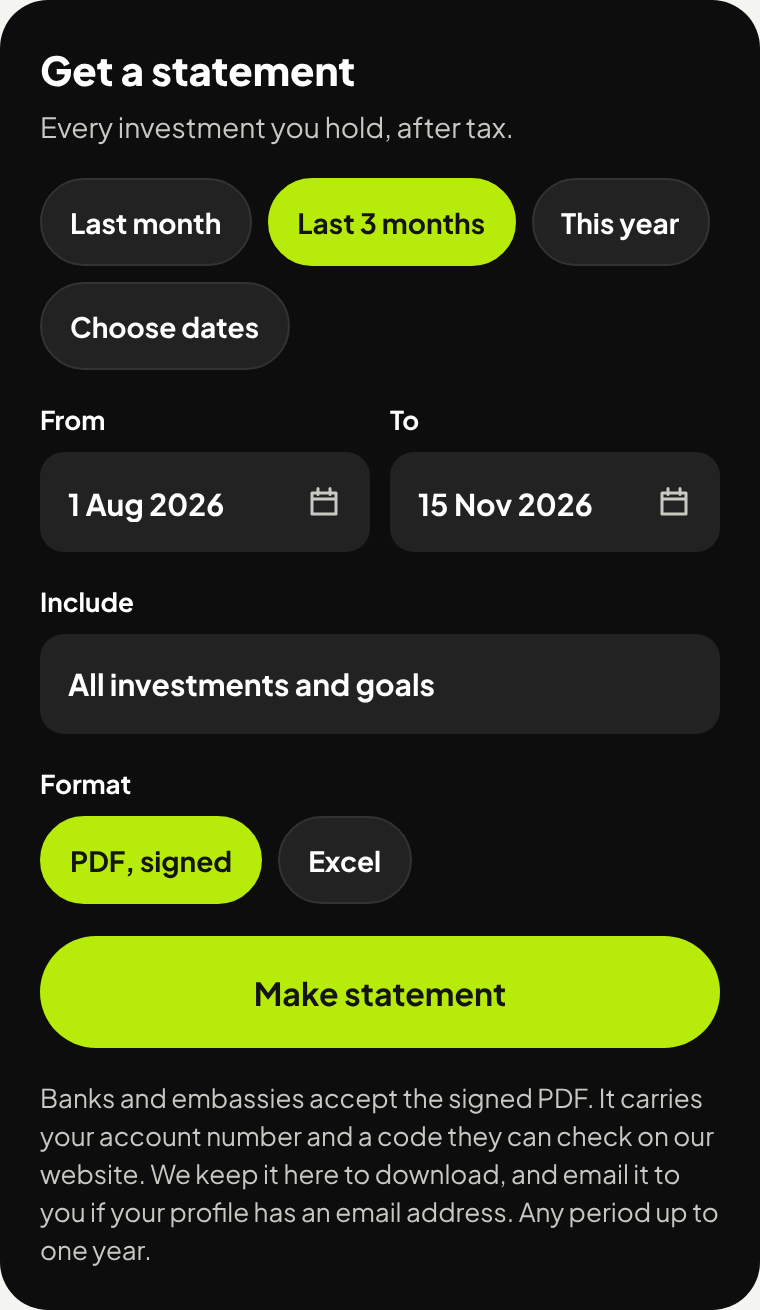
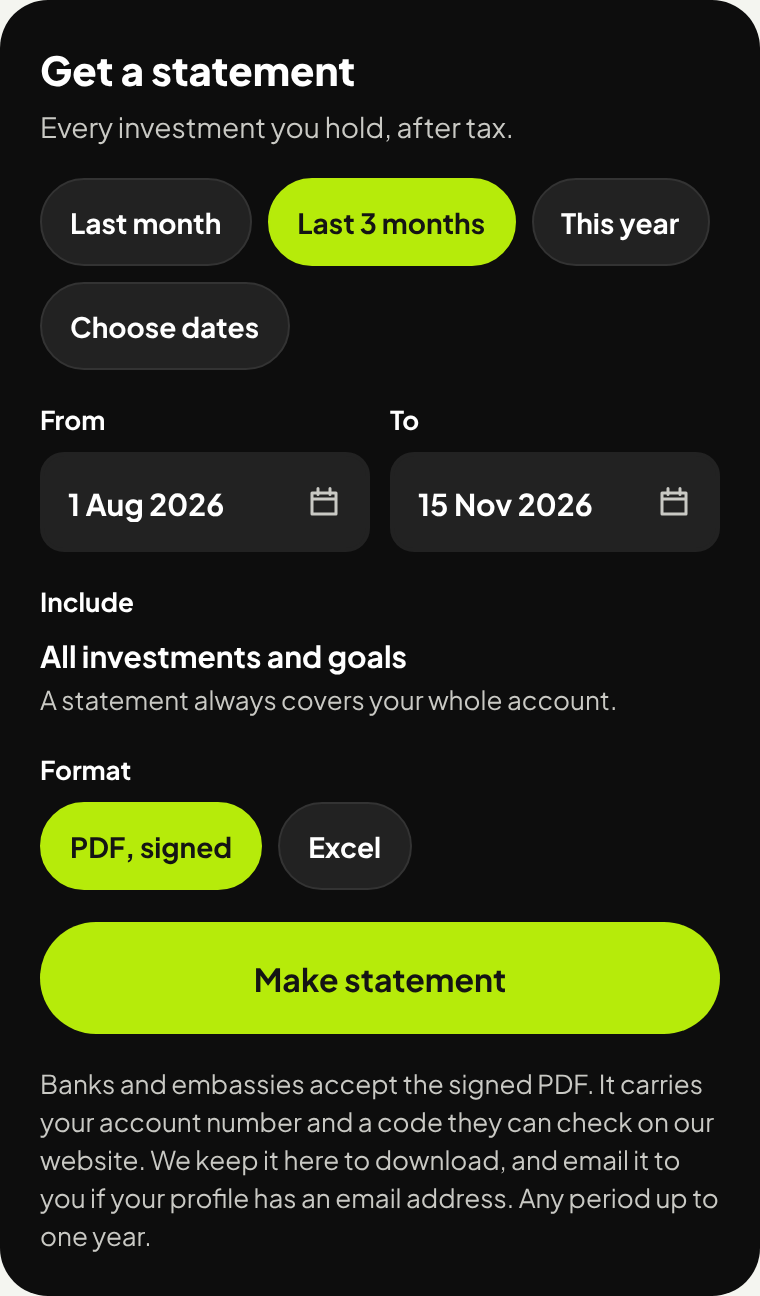
Show Include as plain text and name the PDF button beside Excel
The Include line cannot be changed, so it no longer looks like a field.
A statement row's PDF button says "as PDF" when an Excel button sits
beside it, so a screen reader can tell them apart.

Claude-Session: https://claude.ai/code/session_019e3LtEnNV9DD19PGNMNe41

diff --git a/apps/client/src/dataSaving/__tests__/dataSaving.test.tsx b/apps/client/src/dataSaving/__tests__/dataSaving.test.tsx
@@ -136,18 +136,18 @@ describe("Wi-Fi only downloads", () => {
     save({ light: false, wifiOnlyDocuments: true });
     jest.mocked(currentConnection).mockResolvedValue("mobile");
     const client = await documents();
-    await fireEvent.press(screen.getByLabelText("Download October 2026"));
+    await fireEvent.press(screen.getByLabelText("Download October 2026 as PDF"));
     expect(await screen.findByText(/You are on mobile data/)).toBeTruthy();
     expect(client.downloaded).toEqual([]);
 
-    await fireEvent.press(screen.getByLabelText("Download October 2026 on mobile data"));
+    await fireEvent.press(screen.getByLabelText("Download October 2026 as PDF on mobile data"));
     await waitFor(() => expect(client.downloaded).toEqual(["demo-monthly-1"]));
   });
 
   it("downloads straight away on Wi-Fi, or when the network cannot be told", async () => {
     save({ light: false, wifiOnlyDocuments: true });
     const client = await documents();
-    await fireEvent.press(screen.getByLabelText("Download October 2026"));
+    await fireEvent.press(screen.getByLabelText("Download October 2026 as PDF"));
     await waitFor(() => expect(client.downloaded).toEqual(["demo-monthly-1"]));
 
     jest.mocked(currentConnection).mockResolvedValue("unknown");
@@ -159,7 +159,7 @@ describe("Wi-Fi only downloads", () => {
   it("never holds a download when the choice is off", async () => {
     jest.mocked(currentConnection).mockResolvedValue("mobile");
     const client = await documents();
-    await fireEvent.press(screen.getByLabelText("Download October 2026"));
+    await fireEvent.press(screen.getByLabelText("Download October 2026 as PDF"));
     await waitFor(() => expect(client.downloaded).toEqual(["demo-monthly-1"]));
   });
 });

diff --git a/apps/client/src/app/(app)/documents.tsx b/apps/client/src/app/(app)/documents.tsx
@@ -322,9 +322,13 @@ function StatementForm({ onAsked }: { onAsked: (document: DocumentItem, format: 
         <Txt size={fontSizes.sm} weight="bold" color={colors.white} nativeID="statement-include-label">
           Include
         </Txt>
-        <View style={styles.dateBox} aria-labelledby="statement-include-label" testID="statement-include">
-          <Txt size={15} weight="bold" color={colors.white} style={{ flex: 1 }}>
+        {/* Not a field: a statement always covers the whole account, so it adds up and its check code vouches for all of it. */}
+        <View aria-labelledby="statement-include-label" testID="statement-include" style={{ gap: 2 }}>
+          <Txt size={15} weight="bold" color={colors.white}>
             All investments and goals
+          </Txt>
+          <Txt size={fontSizes.sm} color={colors.onBlackMuted}>
+            A statement always covers your whole account.
           </Txt>
         </View>
       </View>
@@ -807,7 +811,7 @@ function DocumentRow({ document, first }: { document: DocumentItem; first: boole
           onPress={download}
           disabled={pdfState === "busy"}
           accessibilityRole="button"
-          accessibilityLabel={pdfState === "held" ? `Download ${title} on mobile data` : `Download ${title}`}
+          accessibilityLabel={`Download ${title}${document.spreadsheetByteSize !== null ? " as PDF" : ""}${pdfState === "held" ? " on mobile data" : ""}`}
           style={({ pressed }) => [styles.roundButton, pressed && { opacity: 0.7 }]}
           testID={`download-${document.id}`}
         >

diff --git a/apps/client/src/documents/__tests__/documentsScreen.test.tsx b/apps/client/src/documents/__tests__/documentsScreen.test.tsx
@@ -69,7 +69,7 @@ describe("the Documents screen", () => {
     expect(screen.getByText("Investment note IN-Pq31wXb7")).toBeTruthy();
     expect(screen.getByText("Investment note IN-Pq2mKc84")).toBeTruthy();
     expect(screen.getByText(/^Investment ended\. Note made on/)).toBeTruthy();
-    await fireEvent.press(screen.getByLabelText("Download October 2026"));
+    await fireEvent.press(screen.getByLabelText("Download October 2026 as PDF"));
     // The download finishes after the press returns, so wait for it.
     await waitFor(() => expect(client.downloaded).toEqual(["demo-monthly-1"]));
   });
